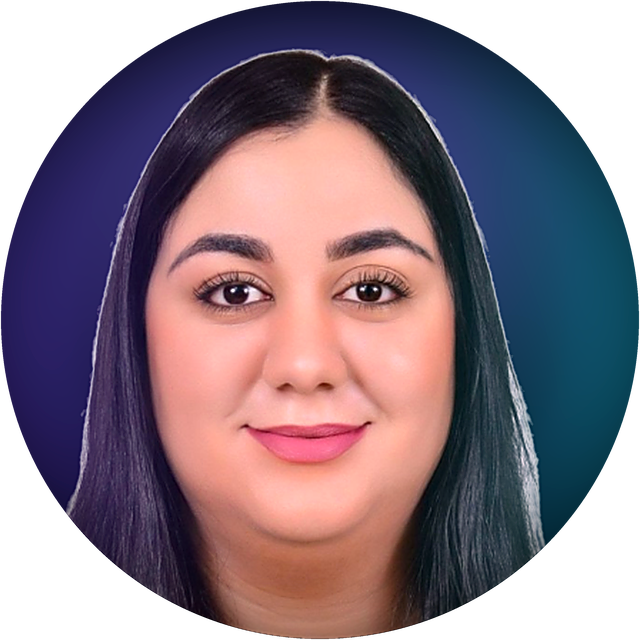
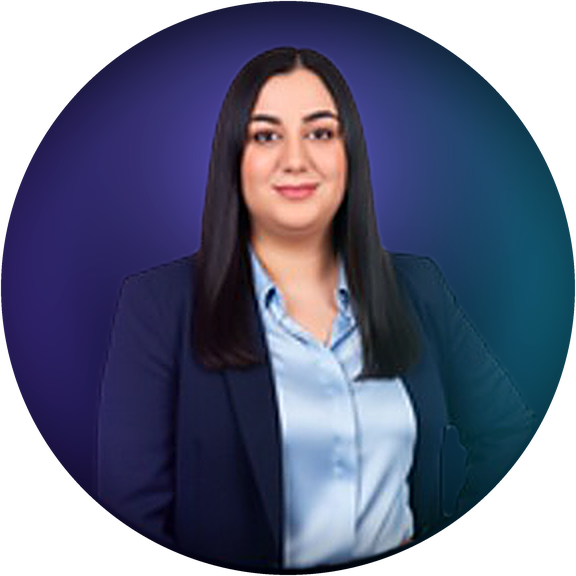
Utilise le portrait du CV pour le hero
Rania préfère la photo de son CV — buste en tailleur — à la photo
d'identité employée jusqu'ici. Elle est extraite du PDF, où elle
n'existe qu'en 309 px, l'anneau bleu marine de la mise en page étant
exclu au recadrage.

Le détourage est repris pour cette source. Le fond est reconnu à sa
clarté *et* à sa neutralité : ce second critère le sépare de la chemise,
claire mais bleue, et vaut aussi pour le triangle de fond enclavé entre
le bras replié et le buste, qu'une recherche par connexité depuis le
bord laissait intact.

Les pixels de contour, qui mélangent le bleu marine et le gris du studio
en un gris-bleu clair, traçaient un liseré sur le fond nuit. Plutôt que
d'estimer leur composition, la frontière est reculée dans le sujet par
érosion, puis floutée pour retrouver un bord anticrénelé.
unmix_backdrop devient inutile et disparaît.

diff --git a/src/components/Hero.tsx b/src/components/Hero.tsx
@@ -146,8 +146,8 @@ export default function Hero() {
             >
               <img
                 src={content.photo}
-                width={640}
-                height={640}
+                width={576}
+                height={576}
                 alt={`${content.name} — ${t(content.role)}`}
                 className="block w-full rounded-full bg-surface"
               />

diff --git a/scripts/process-photo.py b/scripts/process-photo.py
@@ -4,15 +4,15 @@
 
 Écrit `public/rania.webp` et `public/rania.png`.
 
-La source `scripts/photo-source.png` est un portrait posé sur un disque blanc
-uniforme, lui-même sur un fond gris sombre, le disque étant rogné de 28 px en
-haut.
+La source `scripts/photo-source.png` est le portrait du CV : buste en tailleur
+sur fond de studio gris clair uniforme, inscrit dans un cercle bordé d'un
+anneau bleu marine tracé par la mise en page du CV.
 
-Le traitement enchaîne trois étapes : retirer le fond de studio blanc, le
-remplacer par un fond nuit bleuté avec un contre-jour derrière la tête, puis
-éclairer le portrait en violet à gauche et en cyan à droite — les couleurs du
-site. Le visage garde ses teintes naturelles ; la photo cesse de ressembler à
-une photo d'identité posée sur une page sombre.
+Le traitement enchaîne quatre étapes : écarter l'anneau décoratif, détacher le
+sujet du fond de studio, le recomposer sur un fond nuit avec un contre-jour
+derrière la tête, puis l'éclairer en violet à gauche et en cyan à droite — les
+couleurs du site. Le visage garde ses teintes naturelles ; la photo cesse de
+ressembler à une vignette de CV posée sur une page sombre.
 
 Dépendances : `pip install pillow numpy scipy`
 """
@@ -26,20 +26,16 @@ HERE = os.path.dirname(os.path.abspath(__file__))
 SRC = os.path.join(HERE, 'photo-source.png')
 OUT_DIR = os.path.join(HERE, '..', 'public')
 
-# Géométrie du disque blanc dans l'image source, relevée à la mesure.
-CX, CY, R = 323, 233, 261
-PAD_TOP = 40      # les 28 premières lignes du disque sont du blanc pur : on le prolonge
+# Géométrie du portrait dans l'image source, relevée à la mesure. R est le rayon
+# utile, pris juste à l'intérieur de l'anneau bleu marine pour l'exclure.
+CX, CY, R = 154, 154, 144
+
+# Niveau du fond de studio. Il sert de seuil de détourage et de couleur à
+# retirer des pixels de bord ; ce fond est gris clair, pas blanc pur.
+BACKDROP = 240.0
+
 SS = 4            # suréchantillonnage du masque circulaire
-OUTPUT = 640      # côté de l'image produite
-TIGHT = 0.86      # resserrement du cadre autour du sujet
-
-
-def load_padded():
-    """Complète le haut du disque sur du blanc pur et renvoie le centre corrigé."""
-    src = Image.open(SRC).convert('RGB')
-    canvas = Image.new('RGB', (src.width, src.height + PAD_TOP), (255, 255, 255))
-    canvas.paste(src, (0, PAD_TOP))
-    return canvas, CY + PAD_TOP
+OUTPUT = 576      # côté de l'image produite
 
 
 def circle_alpha(size: int) -> Image.Image:
@@ -61,49 +57,45 @@ def radial(size: int, cx: float, cy: float, radius: float) -> np.ndarray:
 def subject_alpha(rgb: np.ndarray, inside: np.ndarray) -> np.ndarray:
     """Opacité du sujet dans [0,1] : 0 sur le fond de studio, 1 sur le sujet.
 
-    Le fond est trouvé par composantes connexes depuis le bord du disque, et non
-    par simple seuillage : les hautes lumières du visage sont claires elles
-    aussi, un seuil les percerait.
+    Le fond se reconnaît à deux traits simultanés : il est clair *et* neutre. Ce
+    second critère est ce qui le sépare de la chemise, claire mais franchement
+    bleue, et de la peau, claire mais chaude. Un seuil sur la seule clarté
+    percerait l'une et l'autre.
+
+    La neutralité vaut aussi dans les zones de fond enclavées — le triangle
+    entre le bras replié et le buste — qu'une recherche par connexité depuis le
+    bord du disque laisserait au contraire intactes.
     """
     lum = rgb.mean(axis=2)
-    near_white = (lum > 236) & inside
+    neutral = rgb.max(axis=2) - rgb.min(axis=2) < 14
+    candidate = (lum > BACKDROP - 14) & neutral & inside
 
-    # Amorce : anneau juste à l'intérieur du disque, toujours du fond.
-    seed = ~ndimage.binary_erosion(inside, iterations=4) & inside
+    # Ne retenir que les plages étendues : un pixel neutre clair isolé, sur une
+    # dent ou un reflet d'œil, n'est pas du fond.
+    labels, count = ndimage.label(candidate)
+    if count:
+        sizes = np.bincount(labels.ravel())
+        keep = {i for i in range(1, count + 1) if sizes[i] >= 30}
+        background = np.isin(labels, list(keep))
+    else:
+        background = np.zeros_like(candidate)
 
-    labels, _ = ndimage.label(near_white)
-    background_labels = set(labels[seed & near_white].ravel()) - {0}
-    background = np.isin(labels, list(background_labels))
+    # Les pixels du contour mélangent le sujet et le fond. Sur un tailleur bleu
+    # marine, ce mélange donne un gris-bleu clair : le garder opaque trace un
+    # liseré net sur le fond nuit, et estimer sa composition demanderait de
+    # connaître la couleur du sujet en chaque point du bord.
+    #
+    # Plus simple et plus sûr : reculer la frontière à l'intérieur du sujet, de
+    # sorte que seuls des pixels franchement intérieurs subsistent. Le flou qui
+    # suit redonne un bord anticrénelé. On perd deux pixels de silhouette, ce
+    # qui ne se voit pas ; l'érosion élimine au passage les îlots de bruit que
+    # le filtrage par taille avait laissés dans le fond.
+    subject = ~background & inside
+    core = ndimage.binary_erosion(subject, iterations=6)
+    alpha = ndimage.gaussian_filter(core.astype(np.float32), 1.6)
 
-    # La transition cheveux/studio s'étale sur une dizaine de pixels : la bande
-    # traitée doit la couvrir entièrement, sinon un liseré clair subsiste.
-    # Dans cette bande, l'opacité suit la clarté du pixel — les cheveux, très
-    # sombres, restent pleinement opaques ; seuls les pixels clairs s'effacent.
-    band = ndimage.binary_dilation(background, iterations=10)
-    whiteness = np.clip((lum - 188.0) / 67.0, 0.0, 1.0)
-
-    alpha = np.ones_like(lum)
-    alpha[band] = 1.0 - whiteness[band]
-    alpha[background] = 0.0
     alpha[~inside] = 0.0
-
-    # Adoucit l'escalier laissé par le seuillage, sans ronger la silhouette.
-    return np.clip(ndimage.gaussian_filter(alpha, 0.8), 0.0, 1.0)
-
-
-def unmix_white(rgb: np.ndarray, alpha: np.ndarray) -> np.ndarray:
-    """Retire la contribution du fond blanc dans les pixels semi-transparents.
-
-    Un pixel de bord observé vaut O = F·a + 255·(1−a), où F est la vraie couleur
-    du sujet. Sans cette inversion, les mèches gardent le blanc du studio et
-    dessinent un halo clair dès qu'on les pose sur un fond sombre.
-    """
-    a = np.clip(alpha, 0.0, 1.0)[:, :, None]
-    unmixed = (rgb - 255.0 * (1.0 - a)) / np.maximum(a, 0.12)
-
-    # Les pixels quasi opaques n'ont rien à corriger : on les laisse intacts.
-    blend = np.clip((0.985 - a) / 0.985, 0.0, 1.0)
-    return np.clip(rgb * (1.0 - blend) + unmixed * blend, 0.0, 255.0)
+    return np.clip(alpha, 0.0, 1.0)
 
 
 def vignette(strength=0.34, radius=0.78):
@@ -137,17 +129,18 @@ def bicolor_light(rgb: np.ndarray) -> np.ndarray:
 
 
 def build_portrait() -> Image.Image:
-    canvas, cy = load_padded()
+    src = Image.open(SRC).convert('RGB')
 
-    r = int(R * TIGHT)
-    box = (CX - r, cy - r - int(R * 0.05), CX + r, cy + r - int(R * 0.05))
-    crop = canvas.crop(box).resize((OUTPUT, OUTPUT), Image.LANCZOS)
+    # Recadrage carré sur le disque utile, anneau décoratif exclu, puis mise à
+    # l'échelle. La source du CV est petite : l'agrandissement est assumé, la
+    # netteté est rattrapée au masque flou en fin de chaîne.
+    crop = src.crop((CX - R, CY - R, CX + R, CY + R))
+    crop = crop.resize((OUTPUT, OUTPUT), Image.LANCZOS)
 
     rgb = np.asarray(crop).astype(np.float32)
     inside = radial(OUTPUT, OUTPUT / 2 - 0.5, OUTPUT / 2 - 0.5, OUTPUT / 2 - 1) > 0
 
     alpha = subject_alpha(rgb, inside)
-    rgb = unmix_white(rgb, alpha)
 
     # Fond de studio : nuit bleutée, éclaircie derrière la tête pour détacher
     # les cheveux sombres — l'équivalent d'un contre-jour.
@@ -156,19 +149,18 @@ def build_portrait() -> Image.Image:
         np.array([26, 30, 58], dtype=np.float32) * (1 - ramp)
         + np.array([7, 9, 20], dtype=np.float32) * ramp
     )
-    rim = radial(OUTPUT, OUTPUT * 0.5, OUTPUT * 0.34, OUTPUT * 0.46)[:, :, None]
+    rim = radial(OUTPUT, OUTPUT * 0.5, OUTPUT * 0.30, OUTPUT * 0.44)[:, :, None]
     background = background + rim * np.array([92, 76, 168], dtype=np.float32)
 
     a = alpha[:, :, None]
     composed = rgb * a + background * (1 - a)
-
-    # Étalonnage : éclairage bicolore aux couleurs du site, puis vignettage.
     composed = bicolor_light(composed) * vignette()
 
     img = Image.fromarray(np.clip(composed, 0, 255).astype(np.uint8), 'RGB')
     img = ImageEnhance.Contrast(img).enhance(1.08)
     img = ImageEnhance.Color(img).enhance(1.05)
-    img = img.filter(ImageFilter.UnsharpMask(radius=1.6, percent=62, threshold=3))
+    # Rayon et dose relevés : la source est agrandie, il faut redonner du mordant.
+    img = img.filter(ImageFilter.UnsharpMask(radius=2.0, percent=78, threshold=2))
 
     out = img.convert('RGBA')
     out.putalpha(circle_alpha(OUTPUT))
@@ -179,7 +171,7 @@ def main():
     portrait = build_portrait()
     os.makedirs(OUT_DIR, exist_ok=True)
 
-    portrait.save(os.path.join(OUT_DIR, 'rania.webp'), 'WEBP', quality=90, method=6)
+    portrait.save(os.path.join(OUT_DIR, 'rania.webp'), 'WEBP', quality=92, method=6)
     portrait.save(os.path.join(OUT_DIR, 'rania.png'), 'PNG', optimize=True)
 
     for name in ('rania.webp', 'rania.png'):
